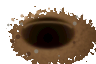
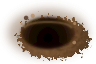
Fluchtlöcher färben den Boden nicht mehr braun, nur ein schmaler Erdwall ums Loch

diff --git a/src/map.rs b/src/map.rs
@@ -911,7 +911,8 @@ pub fn surface_color(grid: &Grid, p: TilePos) -> Color {
     }
     match tile.feature {
         Some(Feature::Hedge) => rgb = mix(rgb, [0.25, 0.42, 0.22], 0.75),
-        Some(Feature::BoltHole) => rgb = mix(rgb, [0.36, 0.26, 0.17], 0.8),
+        // Das Fluchtloch bringt seinen kleinen Erdwall selbst mit; der Boden drumherum bleibt, wie er ist.
+        Some(Feature::BoltHole) => {}
         Some(Feature::SunSpot) => rgb = mix(rgb, [0.95, 0.85, 0.50], 0.45),
         Some(Feature::Herbs) => rgb = mix(rgb, [0.45, 0.62, 0.40], 0.4),
         Some(Feature::Playground) => rgb = mix(rgb, [0.70, 0.82, 0.45], 0.4),
